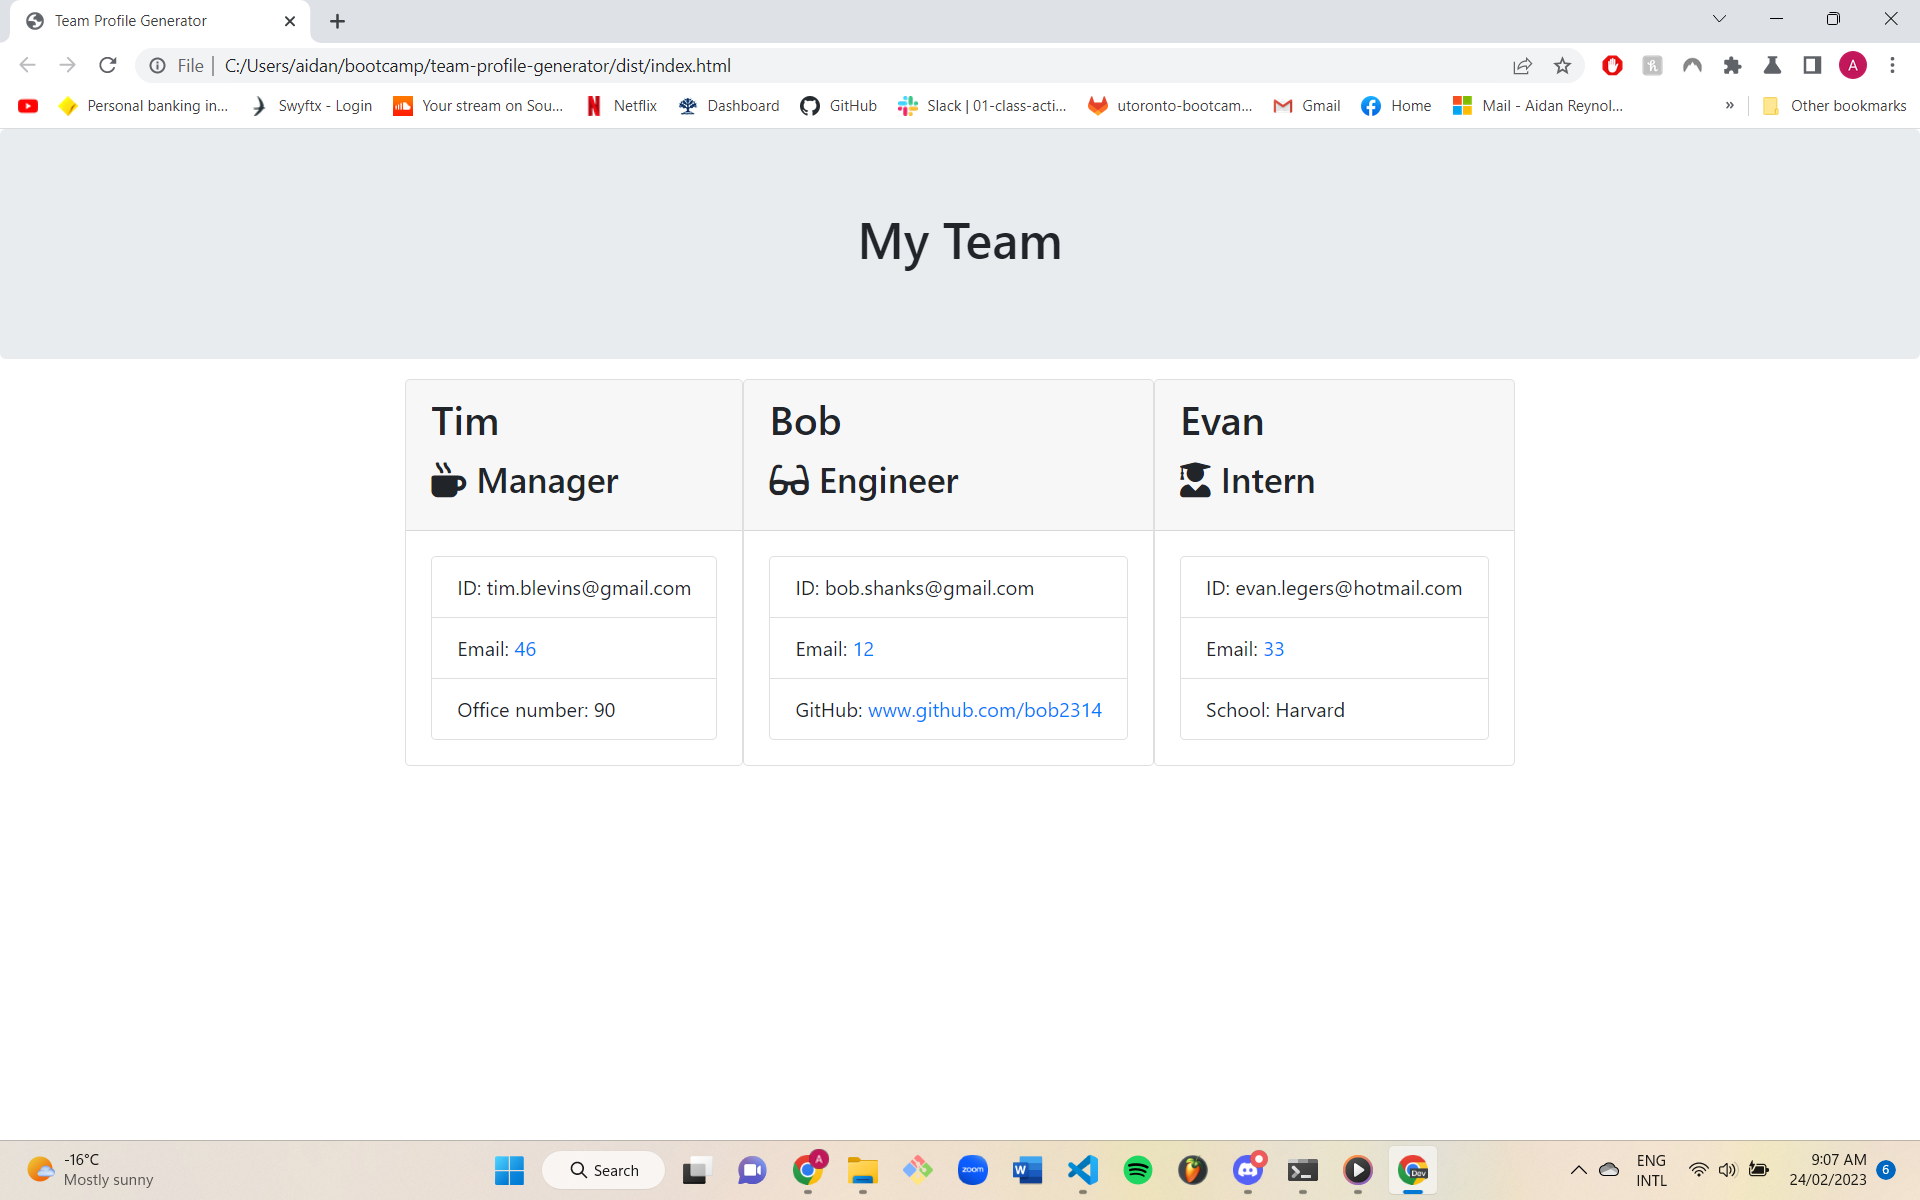
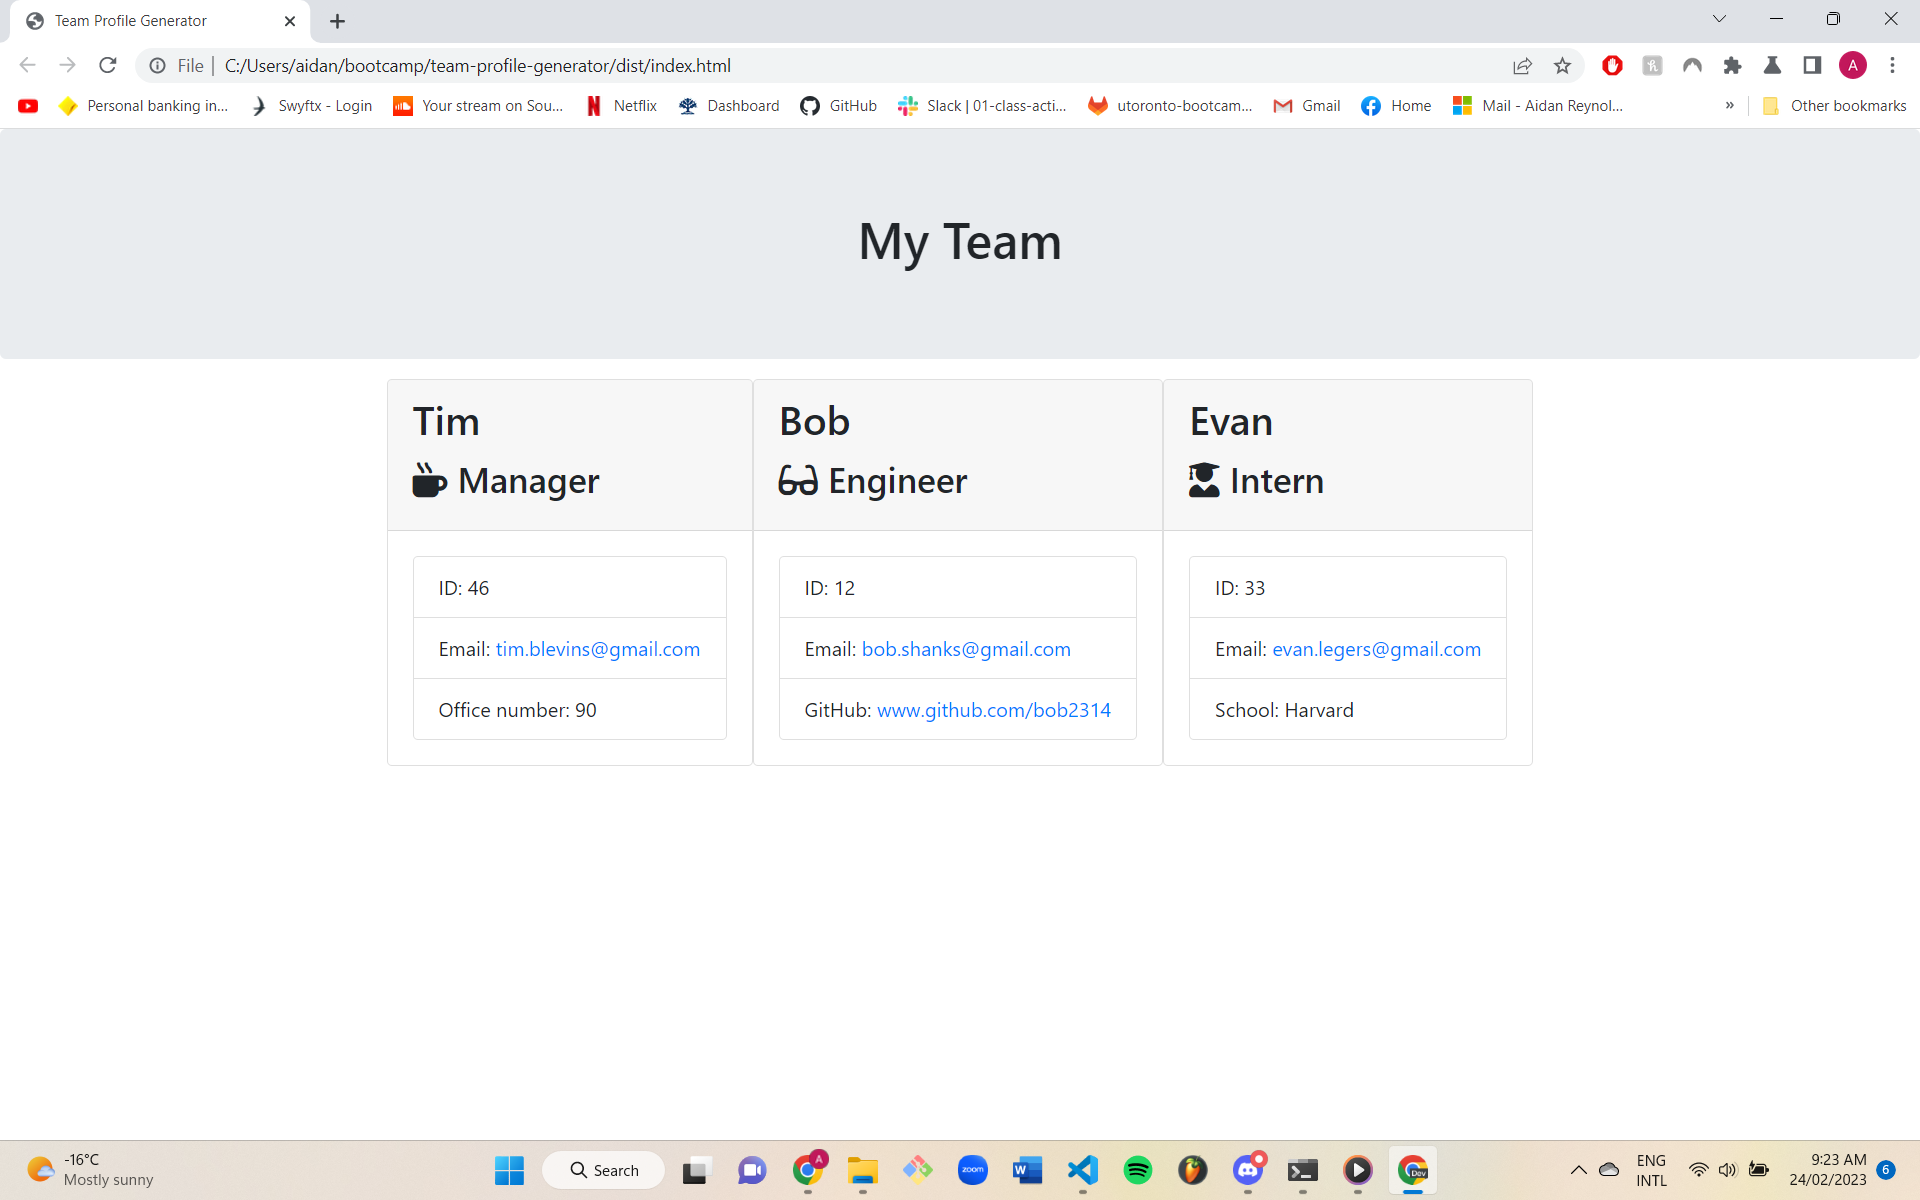
minor fix

diff --git a/dist/index.html b/dist/index.html
@@ -1,0 +1,71 @@
+
+    <!DOCTYPE html>
+    <html lang="en">
+    <head>
+        <meta charset="UTF-8">
+        <meta name="viewport" content="width=device-width, initial-scale=1.0">
+        <meta http-equiv="X-UA-Compatible" content="ie=edge">
+        <link rel="stylesheet" href="https://stackpath.bootstrapcdn.com/bootstrap/4.2.1/css/bootstrap.min.css" integrity="sha384-GJzZqFGwb1QTTN6wy59ffF1BuGJpLSa9DkKMp0DgiMDm4iYMj70gZWKYbI706tWS" crossorigin="anonymous">
+        <link rel="stylesheet" href="https://use.fontawesome.com/releases/v5.8.1/css/all.css" integrity="sha384-50oBUHEmvpQ+1lW4y57PTFmhCaXp0ML5d60M1M7uH2+nqUivzIebhndOJK28anvf" crossorigin="anonymous">
+        <link rel="stylesheet" href="style.css">
+        <title>Team Profile Generator</title>
+    </head>
+    <body>
+        <div class="container-fluid">
+            <div class="row">
+                <div class="col-12 jumbotron mb-3 team-heading">
+                    <h1 class="text-center">My Team</h1>
+                </div>
+            </div>
+        </div>
+        <div class="container">
+            <div class="row">
+                <div class="team-area col-12 d-flex justify-content-center">
+                    
+    <div class="card employee-card">
+        <div class="card-header">
+            <h2 class="card-title">Tim</h2>
+            <h3 class="card-title"><i class="fas fa-mug-hot mr-2"></i>Manager</h3>
+        </div>
+        <div class="card-body">
+            <ul class="list-group">
+                <li class="list-group-item">ID: 46</li>
+                <li class="list-group-item">Email: <a href="mailto:tim.blevins@gmail.com">tim.blevins@gmail.com</a></li>
+                <li class="list-group-item">Office number: 90</li>
+            </ul>
+        </div>
+    </div>
+    
+    <div class="card employee-card">
+        <div class="card-header">
+            <h2 class="card-title">Bob</h2>
+            <h3 class="card-title"><i class="fas fa-glasses mr-2"></i>Engineer</h3>
+        </div>
+        <div class="card-body">
+            <ul class="list-group">
+                <li class="list-group-item">ID: 12</li>
+                <li class="list-group-item">Email: <a href="mailto:bob.shanks@gmail.com">bob.shanks@gmail.com</a></li>
+                <li class="list-group-item">GitHub: <a href="https://www.github.com/bob2314" target="_blank">www.github.com/bob2314</a></li>
+            </ul>
+        </div>
+    </div>
+    
+    <div class="card employee-card">
+        <div class="card-header">
+            <h2 class="card-title">Evan</h2>
+            <h3 class="card-title"><i class="fas fa-user-graduate mr-2"></i>Intern</h3>
+            </div>
+            <div class="card-body">
+                <li class="list-group-item">ID: 33</li>
+                <li class="list-group-item">Email: <a href="mailto:evan.legers@gmail.com">evan.legers@gmail.com</a></li>
+                <li class="list-group-item">School: Harvard</li>
+            </ul>
+        </div>
+    </div>
+    
+                </div>
+            </div>
+        </div>
+    </body>
+    </html>
+    

diff --git a/lib/Employee.js b/lib/Employee.js
@@ -1,8 +1,8 @@
 class Employee {   
-    constructor(name, email, id) {
+    constructor(name, id, email) {
         this.name = name;
-        this.email = email;
         this.id = id;
+        this.email = email;
     }
     getId() {
         return this.id;
